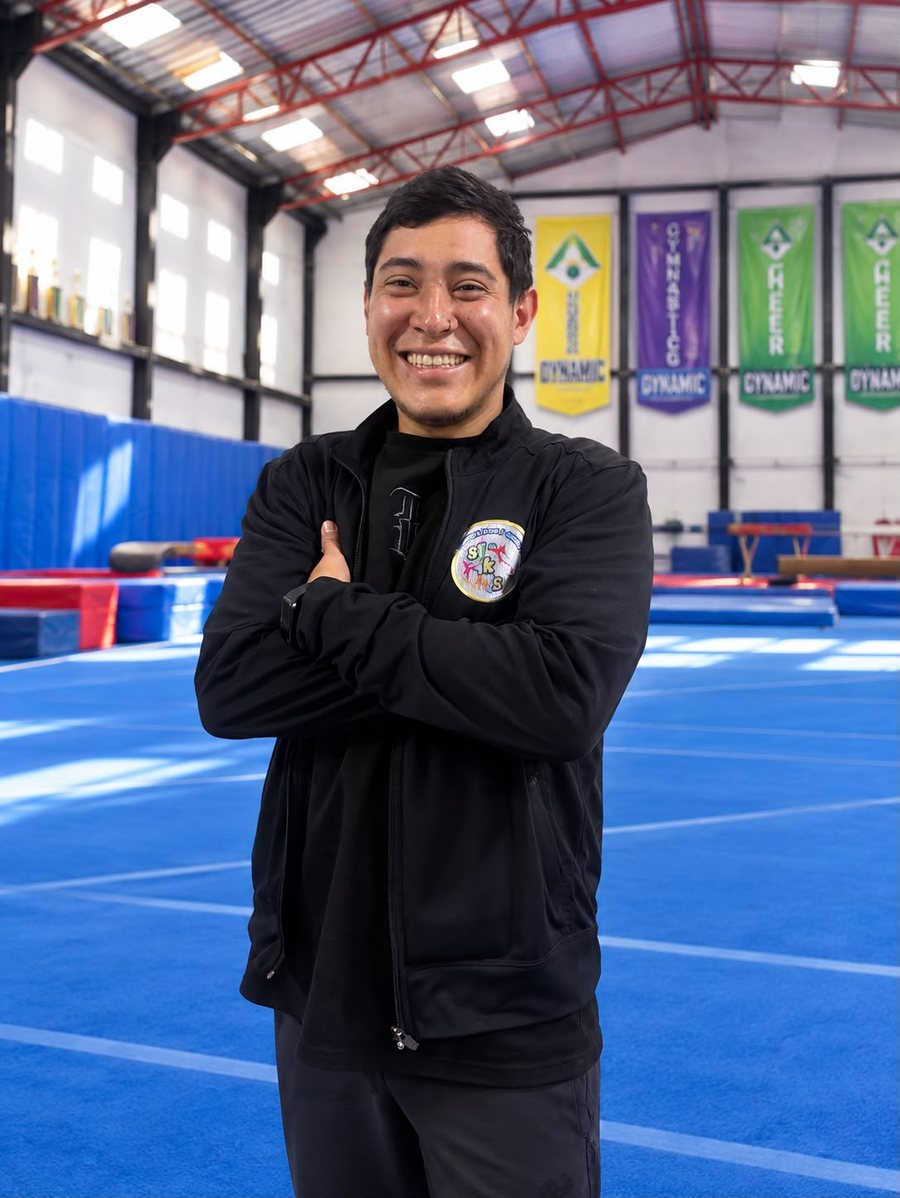
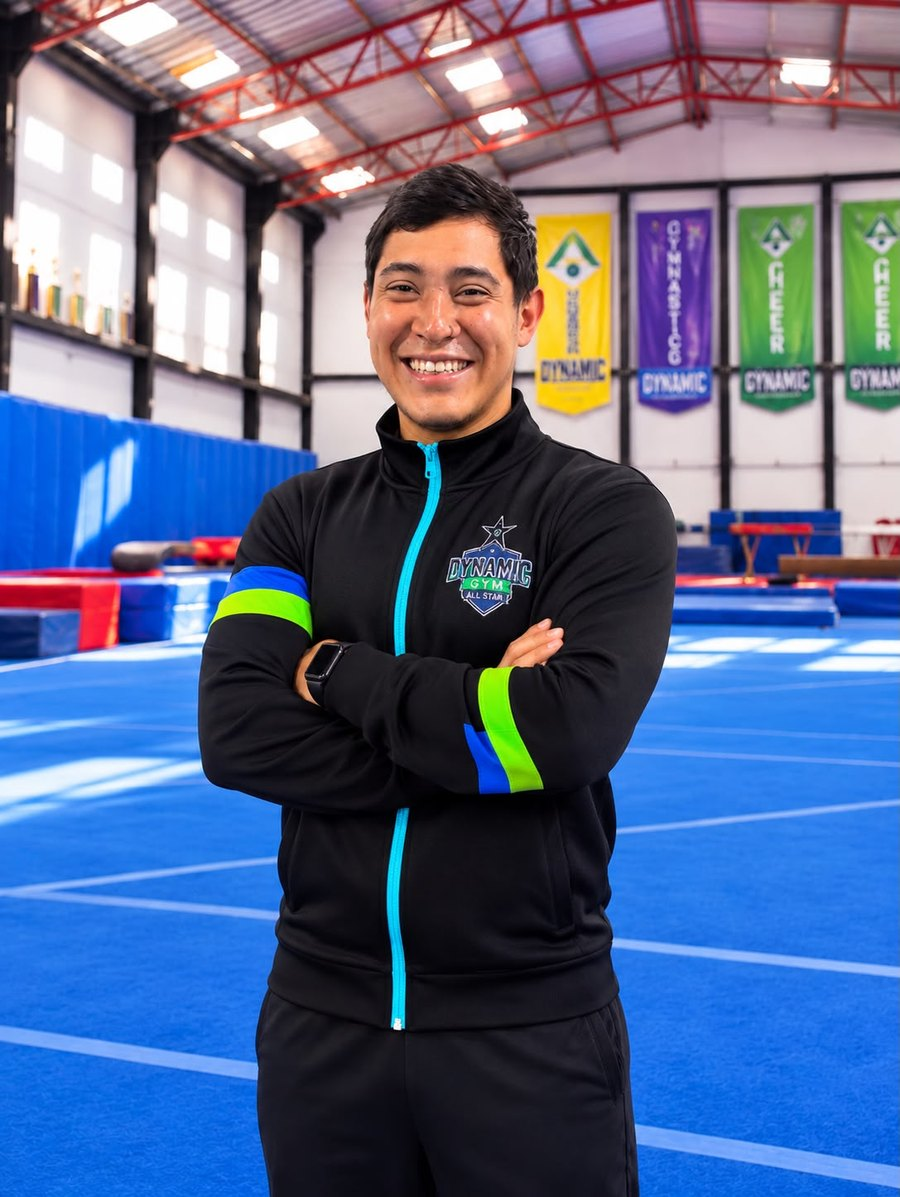
Pruebas: correcciones de la dueña (misión, valores, servicios, planes, niveles, categorías) y equipo de 5 fichas
Claude-Session: https://claude.ai/code/session_01TcARdtBkT42PP3jxgWXUyL

diff --git a/pruebas/dynamic-all-star.html b/pruebas/dynamic-all-star.html
@@ -4,10 +4,15 @@
 <title>Dynamic All Star</title>
 <meta name="description" content="Escuela de gimnasia con planes mensuales, niveles, campeonatos y uniformes.">
 <link rel="preconnect" href="https://fonts.googleapis.com"><link rel="preconnect" href="https://fonts.gstatic.com" crossorigin><link rel="stylesheet" href="https://fonts.googleapis.com/css2?family=Bricolage+Grotesque:opsz,wght@12..96,600;12..96,700&family=Instrument+Sans:wght@400;500;600;700&display=swap">
-<link rel="stylesheet" href="assets/site.css?v=1793600000">
+<link rel="stylesheet" href="assets/site.css?v=1794600100">
 <link rel="icon" href="favicon.ico" sizes="48x48"><link rel="icon" type="image/png" sizes="32x32" href="favicon-32.png"><link rel="icon" type="image/png" sizes="192x192" href="favicon-192.png"><link rel="apple-touch-icon" href="apple-touch-icon.png">
 </head><body>
-<div class="test"><strong>Versión de pruebas.</strong> Textos, horarios, precios y datos de contacto están por confirmar con Dynamic GYM.</div><header class="nav"><div class="wrap"><a class="brand" href="index.html" aria-label="Dynamic GYM, inicio"><img src="img/logo.png" alt="Dynamic GYM" width="262" height="41"></a><button class="menu-btn" id="menu-btn" aria-expanded="false" aria-controls="links">Menú</button><nav class="links" id="links" aria-label="Principal"><a href="index.html">Inicio</a><a href="dynamic-all-star.html" aria-current="page">Dynamic All Star</a><a href="dynamic-gym.html">Dynamic GYM</a><a href="campeonatos.html">Campeonatos</a><a href="niveles-e-insignias.html">Niveles e insignias</a><a href="contacto.html">Contacto</a><a class="cta m-only" href="deportistas.html">Deportistas</a></nav><a class="btn-dep" href="deportistas.html">Deportistas</a></div></header><main><div class="hero full" style="--ar:1.78"><img class="bg" src="img/all-star.jpg" alt="" fetchpriority="high"><div class="wrap"><span class="eyebrow">Tu escuela, tu equipo</span><h1>Dynamic All Star</h1><p class="lede">Aquí se aprende a volar, a caerse y a levantarse con un equipo que te aplaude en cada paso.</p><div class="actions"><a class="btn primary" href="https://wa.me/573212038857?text=Hola%2C%20quiero%20agendar%20una%20clase%20de%20cortes%C3%ADa%20en%20Dynamic%20All%20Star." target="_blank" rel="noopener">Agenda tu clase de cortesía</a><a class="btn ghost" href="niveles-e-insignias.html">Ver cómo se sube de nivel</a></div></div></div><section class="deco"><div class="wrap">
+<div class="test"><strong>Versión de pruebas.</strong> Textos, horarios, precios y datos de contacto están por confirmar con Dynamic GYM.</div><header class="nav"><div class="wrap"><a class="brand" href="index.html" aria-label="Dynamic GYM, inicio"><img src="img/logo.png" alt="Dynamic GYM" width="262" height="41"></a><button class="menu-btn" id="menu-btn" aria-expanded="false" aria-controls="links">Menú</button><nav class="links" id="links" aria-label="Principal"><a href="index.html">Inicio</a><a href="dynamic-all-star.html" aria-current="page">Dynamic All Star</a><a href="dynamic-gym.html">Dynamic GYM</a><a href="campeonatos.html">Campeonatos</a><a href="niveles-e-insignias.html">Niveles e insignias</a><a href="contacto.html">Contacto</a><a class="cta m-only" href="deportistas.html">Deportistas</a></nav><a class="btn-dep" href="deportistas.html">Deportistas</a></div></header><main><div class="hero full" style="--ar:1.78"><img class="bg" src="img/all-star.jpg" alt="" fetchpriority="high"><div class="wrap"><span class="eyebrow">Tu escuela, tu equipo</span><h1>Dynamic All Star</h1><p class="lede">Aquí se aprende a volar, a caerse y a levantarse con un equipo que te aplaude en cada paso.</p><div class="actions"><a class="btn primary" href="https://wa.me/573212038857?text=Hola%2C%20quiero%20agendar%20una%20clase%20de%20cortes%C3%ADa%20en%20Dynamic%20All%20Star." target="_blank" rel="noopener">Agenda tu clase de cortesía</a><a class="btn ghost" href="niveles-e-insignias.html">Ver cómo se sube de nivel</a></div></div></div><section class="soft mision"><div class="wrap">
+<div class="head"><span class="eyebrow">Nuestra misión</span><h2>Formamos deportistas integrales</h2></div>
+<p class="mision-t">Somos la escuela de formación y competencia en porrismo de Dynamic Gym Bogotá, dedicada a potenciar las habilidades físicas, técnicas y artísticas de niños y jóvenes. A través de procesos estructurados, acompañamiento profesional y un entorno seguro, formamos deportistas integrales con alto nivel competitivo, proyectando nuestros equipos hacia escenarios nacionales e internacionales sin perder el enfoque humano.</p>
+</div></section>
+
+<section class="deco"><div class="wrap">
 <div class="head"><span class="eyebrow">Así se vive</span><h2>Un camino claro, de la primera clase al podio</h2><p>Eliges un plan, empiezas en tu nivel y avanzas con un equipo que te acompaña hasta el campeonato.</p></div>
 <div class="grid g4">
 <div class="card ico"><span class="ib" aria-hidden="true"><svg viewBox="0 0 24 24" fill="none" stroke="currentColor" stroke-width="1.8" stroke-linecap="round" stroke-linejoin="round"><circle cx="12" cy="13.5" r="7.5"/><path d="M12 9.5v4.2l2.8 1.8M9.5 2.5h5M12 2.5v3.5M19 6l1.5-1.5"/></svg></span><h3>Entrenas a tu ritmo</h3><p>Eliges cuántas clases al mes se ajustan a tu familia.</p></div>
@@ -19,8 +24,8 @@
 <section class="sky"><div class="wrap">
 <div class="head"><span class="eyebrow">Planes mensuales</span><h2>Elige cuánto quieres entrenar</h2><p>Escoge el ritmo que mejor se ajuste a tu familia. Los horarios se publican cuando estén confirmados.</p></div>
 <div class="grid g3">
-<div class="card plan"><span class="tag e">Competencia</span><span class="n">12</span><span class="u">clases al mes</span><p>Para quienes sueñan con competir: más práctica, más nivel y la emoción de salir al campeonato con el equipo.</p><span class="price">$150.000 <small>al mes</small></span><a class="btn primary plan-cta" href="https://wa.me/573212038857?text=Hola%2C%20quiero%20agendar%20una%20clase%20de%20cortes%C3%ADa%20en%20Dynamic%20All%20Star.%20Me%20interesa%20el%20plan%20de%2012%20clases%20al%20mes." target="_blank" rel="noopener">Agenda tu clase de cortesía</a></div>
-<div class="card plan"><span class="tag g">Recreativo</span><span class="n">8</span><span class="u">clases al mes</span><p>Un ritmo constante para aprender, divertirte y ver cómo avanzas.</p><span class="price">$120.000 <small>al mes</small></span><a class="btn primary plan-cta" href="https://wa.me/573212038857?text=Hola%2C%20quiero%20agendar%20una%20clase%20de%20cortes%C3%ADa%20en%20Dynamic%20All%20Star.%20Me%20interesa%20el%20plan%20de%208%20clases%20al%20mes." target="_blank" rel="noopener">Agenda tu clase de cortesía</a></div>
+<div class="card plan"><span class="tag e">Competencia</span><span class="n">12</span><span class="u">clases al mes</span><p>Para quienes sueñan con competir: más práctica, más nivel y la emoción de salir al campeonato con el equipo.</p><span class="price">$170.000 <small>al mes</small></span><a class="btn primary plan-cta" href="https://wa.me/573212038857?text=Hola%2C%20quiero%20agendar%20una%20clase%20de%20cortes%C3%ADa%20en%20Dynamic%20All%20Star.%20Me%20interesa%20el%20plan%20de%2012%20clases%20al%20mes." target="_blank" rel="noopener">Agenda tu clase de cortesía</a></div>
+<div class="card plan"><span class="tag g">Formativo</span><span class="n">8</span><span class="u">clases al mes</span><p>Un ritmo constante para aprender, divertirte y ver cómo avanzas.</p><span class="price">$150.000 <small>al mes</small></span><a class="btn primary plan-cta" href="https://wa.me/573212038857?text=Hola%2C%20quiero%20agendar%20una%20clase%20de%20cortes%C3%ADa%20en%20Dynamic%20All%20Star.%20Me%20interesa%20el%20plan%20de%208%20clases%20al%20mes." target="_blank" rel="noopener">Agenda tu clase de cortesía</a></div>
 <div class="card plan"><span class="tag g">Recreativo</span><span class="n">4</span><span class="u">clases al mes</span><p>El primer paso para descubrir si esto es lo tuyo, o para sumarlo a otras actividades.</p><span class="price">$100.000 <small>al mes</small></span><a class="btn primary plan-cta" href="https://wa.me/573212038857?text=Hola%2C%20quiero%20agendar%20una%20clase%20de%20cortes%C3%ADa%20en%20Dynamic%20All%20Star.%20Me%20interesa%20el%20plan%20de%204%20clases%20al%20mes." target="_blank" rel="noopener">Agenda tu clase de cortesía</a></div>
 </div></div></section>
 
@@ -42,13 +47,13 @@
 </div></section>
 
 <section class="soft" id="entrenadores"><div class="wrap">
-<div class="head"><span class="eyebrow">Tus entrenadores</span><h2>Conoce a quienes creen en ti desde la primera clase</h2><p>Un equipo que cuida, motiva y celebra cada avance, desde la primera clase hasta el campeonato.</p></div>
-<div class="grid g4">
-<div class="card pic coach"><img src="img/entrenadores/entrenador-3.jpg?v=2" alt="Entrenadora de Dynamic GYM All Star con la chaqueta del equipo, en el gimnasio" loading="lazy"><div class="tx"><h3>Nombre por confirmar</h3><p>Entrenadora</p></div></div>
-<div class="card pic coach"><img src="img/entrenadores/entrenador-1.jpg" alt="Nicolás Cuadros, entrenador" loading="lazy"><div class="tx"><h3>Nicolás Cuadros</h3><p>Entrenador</p></div></div>
-<div class="card pic coach"><img src="img/entrenadores/entrenador-2.jpg" alt="Nombre por confirmar, Entrenador o entrenadora" loading="lazy"><div class="tx"><h3>Nombre por confirmar</h3><p>Entrenador o entrenadora</p></div></div>
-<div class="card pic coach"><div class="ph-w" role="img" aria-label="Foto del entrenador por cargar"><svg viewBox="0 0 48 48" aria-hidden="true"><circle cx="24" cy="17" r="8"/><path d="M8 42c1-9 7-14 16-14s15 5 16 14z"/></svg><span>Foto por cargar</span></div><div class="tx"><h3>Nombre por confirmar</h3><p>Entrenador o entrenadora</p></div></div>
-
+<div class="head"><span class="eyebrow">Nuestro equipo</span><h2>Conoce a quienes creen en ti desde la primera clase</h2><p>Un equipo que cuida, motiva y celebra cada avance, desde la primera clase hasta el campeonato.</p></div>
+<div class="grid g5">
+<div class="card pic coach"><img src="img/entrenadores/entrenador-3.jpg?v=2" alt="Yeniffer Loboguerrero, Head Coach" loading="lazy"><div class="tx"><h3>Yeniffer Loboguerrero</h3><p>Head Coach</p></div></div>
+<div class="card pic coach"><img src="img/entrenadores/entrenador-1.jpg?v=3" alt="Nicolás Cuadros, Entrenador" loading="lazy"><div class="tx"><h3>Nicolás Cuadros</h3><p>Entrenador</p></div></div>
+<div class="card pic coach"><img src="img/entrenadores/entrenador-2.jpg?v=3" alt="Nicolás Hernández, Entrenador" loading="lazy"><div class="tx"><h3>Nicolás Hernández</h3><p>Entrenador</p></div></div>
+<div class="card pic coach"><img src="img/entrenadores/entrenador-4.jpg" alt="Marvin Cabra, Innovation Choreography" loading="lazy"><div class="tx"><h3>Marvin Cabra</h3><p>Innovation Choreography</p></div></div>
+<div class="card pic coach"><img src="img/entrenadores/entrenador-5.jpg" alt="Isabella, Fisioterapeuta" loading="lazy"><div class="tx"><h3>Isabella</h3><p>Fisioterapeuta</p></div></div>
 </div></div></section>
 
 <section><div class="wrap split">

diff --git a/pruebas/dynamic-gym.html b/pruebas/dynamic-gym.html
@@ -4,17 +4,30 @@
 <title>Dynamic GYM</title>
 <meta name="description" content="El centro de entrenamiento: convenios con colegios y grupo Wildcats.">
 <link rel="preconnect" href="https://fonts.googleapis.com"><link rel="preconnect" href="https://fonts.gstatic.com" crossorigin><link rel="stylesheet" href="https://fonts.googleapis.com/css2?family=Bricolage+Grotesque:opsz,wght@12..96,600;12..96,700&family=Instrument+Sans:wght@400;500;600;700&display=swap">
-<link rel="stylesheet" href="assets/site.css?v=1793500800">
+<link rel="stylesheet" href="assets/site.css?v=1794600000">
 <link rel="icon" href="favicon.ico" sizes="48x48"><link rel="icon" type="image/png" sizes="32x32" href="favicon-32.png"><link rel="icon" type="image/png" sizes="192x192" href="favicon-192.png"><link rel="apple-touch-icon" href="apple-touch-icon.png">
 </head><body>
-<div class="test"><strong>Versión de pruebas.</strong> Textos, horarios, precios y datos de contacto están por confirmar con Dynamic GYM.</div><header class="nav"><div class="wrap"><a class="brand" href="index.html" aria-label="Dynamic GYM, inicio"><img src="img/logo.png" alt="Dynamic GYM" width="262" height="41"></a><button class="menu-btn" id="menu-btn" aria-expanded="false" aria-controls="links">Menú</button><nav class="links" id="links" aria-label="Principal"><a href="index.html">Inicio</a><a href="dynamic-all-star.html">Dynamic All Star</a><a href="dynamic-gym.html" aria-current="page">Dynamic GYM</a><a href="campeonatos.html">Campeonatos</a><a href="niveles-e-insignias.html">Niveles e insignias</a><a href="contacto.html">Contacto</a><a class="cta m-only" href="deportistas.html">Deportistas</a></nav><a class="btn-dep" href="deportistas.html">Deportistas</a></div></header><main><div class="hero" style="--ar:3"><img class="bg" src="img/dynamic-gym-hero.jpg" alt="" fetchpriority="high"><div class="wrap"><span class="eyebrow">Centro de entrenamiento</span><h1>Dynamic GYM</h1><p class="lede">El lugar donde se prepara el talento: un espacio para entrenar, ensayar y crecer juntos.</p><div class="actions"><a class="btn primary" href="contacto.html">Visítanos</a></div></div></div><section class="dark tex"><div class="wrap">
+<div class="test"><strong>Versión de pruebas.</strong> Textos, horarios, precios y datos de contacto están por confirmar con Dynamic GYM.</div><header class="nav"><div class="wrap"><a class="brand" href="index.html" aria-label="Dynamic GYM, inicio"><img src="img/logo.png" alt="Dynamic GYM" width="262" height="41"></a><button class="menu-btn" id="menu-btn" aria-expanded="false" aria-controls="links">Menú</button><nav class="links" id="links" aria-label="Principal"><a href="index.html">Inicio</a><a href="dynamic-all-star.html">Dynamic All Star</a><a href="dynamic-gym.html" aria-current="page">Dynamic GYM</a><a href="campeonatos.html">Campeonatos</a><a href="niveles-e-insignias.html">Niveles e insignias</a><a href="contacto.html">Contacto</a><a class="cta m-only" href="deportistas.html">Deportistas</a></nav><a class="btn-dep" href="deportistas.html">Deportistas</a></div></header><main><div class="hero" style="--ar:3"><img class="bg" src="img/dynamic-gym-hero.jpg" alt="" fetchpriority="high"><div class="wrap"><span class="eyebrow">Centro de entrenamiento</span><h1>Dynamic GYM</h1><p class="lede">El lugar donde se prepara el talento: un espacio para entrenar, ensayar y crecer juntos.</p><div class="actions"><a class="btn primary" href="contacto.html">Visítanos</a></div></div></div><section class="soft mision"><div class="wrap">
+<div class="head"><span class="eyebrow">Nuestra misión</span><h2>Un centro de desarrollo deportivo y artístico en Bogotá</h2></div>
+<p class="mision-t">Somos un centro de desarrollo deportivo y artístico en Bogotá que ofrece instalaciones especializadas, programas de formación y servicios integrales en gimnasia, porrismo, danza urbana y artes aéreas (acrotelas y liras). Mediante un equipo humano capacitado y alianzas estratégicas con colegios, clubes y agrupaciones, brindamos espacios seguros y versátiles que promueven el bienestar, el aprendizaje y el aprovechamiento positivo del tiempo libre en niños, jóvenes y adultos.</p>
+<h3 class="vals-t">Valores institucionales</h3>
+<div class="grid five"><div class="card lvl"><h3>Disciplina y constancia</h3><p>Creemos que los grandes resultados deportivos, académicos y personales se construyen con esfuerzo diario y compromiso.</p></div><div class="card lvl"><h3>Seguridad y bienestar</h3><p>Priorizamos la integridad física y emocional de cada usuario, deportista y aliado mediante instalaciones adecuadas y supervisión profesional.</p></div><div class="card lvl"><h3>Trabajo en equipo</h3><p>Fomentamos la unión, la confianza mutua y el sentido de pertenencia como base del éxito, tanto en el tapete como en nuestras alianzas.</p></div><div class="card lvl"><h3>Respeto e inclusión</h3><p>Valoramos la diversidad de capacidades y procesos, y promovemos un trato digno entre deportistas, familias, entrenadores e instituciones aliadas.</p></div><div class="card lvl"><h3>Excelencia y versatilidad</h3><p>Buscamos la mejora continua en cada clase, alquiler, convenio y presentación competitiva, y nos adaptamos con profesionalismo a las necesidades de cada proyecto.</p></div></div>
+</div></section>
+
+<section class="dark tex"><div class="wrap">
 <div class="head"><span class="eyebrow">Lo que se vive en Dynamic GYM</span><h2>Un espacio donde todos se sienten parte</h2></div>
 <div class="wc-split">
 <figure class="wc-photo"><img src="img/wildcats.jpg" alt="Niñas del equipo Wildcats entrenando una pirámide y acrobacias en el gimnasio de Dynamic" loading="lazy"></figure>
 <div class="wc-cards">
 <div class="card"><span class="tag g">Convenios</span><h3>Colegios y grupos</h3><p>Tu colegio o tu grupo también puede entrenar aquí. Acordamos el valor y la fecha de pago con cada convenio, según los días de entrenamiento o los eventos.</p></div>
-<div class="card"><span class="tag g">Grupo del colegio</span><h3>Colegio Superior Americano</h3><p class="sub-t">Wildcats</p><p>El equipo del colegio que entrena en Dynamic GYM, con sus propios días en el calendario. Aquí se construye el espíritu de equipo.</p></div>
+<div class="card"><span class="tag g">Convenio vigente</span><h3>Colegio Superior Americano</h3><p class="sub-t">Wildcats</p><p>Extraclase de porrismo y acrotelas, y lúdicas de gimnasia para los estudiantes del colegio.</p></div>
+<div class="card"><span class="tag g">Convenio vigente</span><h3>Spartan All Star</h3><p>Alquiler de nuestro escenario deportivo para sus entrenamientos.</p></div>
 </div></div>
+</div></section>
+
+<section id="servicios"><div class="wrap">
+<div class="head"><span class="eyebrow">Servicios de Dynamic GYM</span><h2>Alianzas y alquiler de escenarios</h2><p>Trabajamos con colegios, clubes y agrupaciones que necesitan un espacio seguro y versátil para formar, entrenar y presentarse.</p></div>
+<div class="grid g4"><div class="card lvl"><h3>Convenios institucionales</h3><p>Programas deportivos y artísticos extracurriculares o curriculares, diseñados a la medida para colegios e instituciones educativas.</p></div><div class="card lvl"><h3>Alquiler de espacios para entrenamiento</h3><p>Instalaciones adecuadas para equipos de porrismo, clubes de gimnasia y agrupaciones de danza.</p></div><div class="card lvl"><h3>Alquiler para actividades circenses</h3><p>Espacios con altura y puntos de anclaje seguros para prácticas libres, ensayos o talleres de acrotelas, liras y circo.</p></div><div class="card lvl"><h3>Eventos y proyectos especiales</h3><p>Escenario disponible para talleres intensivos, vacaciones recreativas, ensayos generales y jornadas deportivas.</p></div></div>
 </div></section>
 
 <section class="tint2" id="alquiler"><div class="wrap">

diff --git a/pruebas/niveles-e-insignias.html b/pruebas/niveles-e-insignias.html
@@ -4,18 +4,18 @@
 <title>Niveles e insignias</title>
 <meta name="description" content="Niveles de competencia, categorías por edad e insignias: cómo se mide y se celebra el avance de cada deportista.">
 <link rel="preconnect" href="https://fonts.googleapis.com"><link rel="preconnect" href="https://fonts.gstatic.com" crossorigin><link rel="stylesheet" href="https://fonts.googleapis.com/css2?family=Bricolage+Grotesque:opsz,wght@12..96,600;12..96,700&family=Instrument+Sans:wght@400;500;600;700&display=swap">
-<link rel="stylesheet" href="assets/site.css?v=1793500800">
+<link rel="stylesheet" href="assets/site.css?v=1794600000">
 <link rel="icon" href="favicon.ico" sizes="48x48"><link rel="icon" type="image/png" sizes="32x32" href="favicon-32.png"><link rel="icon" type="image/png" sizes="192x192" href="favicon-192.png"><link rel="apple-touch-icon" href="apple-touch-icon.png">
 </head><body>
 <div class="test"><strong>Versión de pruebas.</strong> Textos, horarios, precios y datos de contacto están por confirmar con Dynamic GYM.</div><header class="nav"><div class="wrap"><a class="brand" href="index.html" aria-label="Dynamic GYM, inicio"><img src="img/logo.png" alt="Dynamic GYM" width="262" height="41"></a><button class="menu-btn" id="menu-btn" aria-expanded="false" aria-controls="links">Menú</button><nav class="links" id="links" aria-label="Principal"><a href="index.html">Inicio</a><a href="dynamic-all-star.html">Dynamic All Star</a><a href="dynamic-gym.html">Dynamic GYM</a><a href="campeonatos.html">Campeonatos</a><a href="niveles-e-insignias.html" aria-current="page">Niveles e insignias</a><a href="contacto.html">Contacto</a><a class="cta m-only" href="deportistas.html">Deportistas</a></nav><a class="btn-dep" href="deportistas.html">Deportistas</a></div></header><main><div class="hero full" style="--ar:1.78"><img class="bg" src="img/niveles-hero.jpg" alt="" fetchpriority="high"><div class="wrap"><span class="eyebrow">Tu progreso, a la vista</span><h1>Niveles e insignias</h1><p class="lede">Sabes dónde estás, qué has logrado y qué sigue. Tu familia también lo ve y lo celebra contigo.</p><div class="actions"><a class="btn primary" href="https://wa.me/573212038857?text=Hola%2C%20quiero%20empezar%20mi%20camino%20en%20Dynamic%20All%20Star.%20%C2%BFPodemos%20agendar%20una%20clase%20de%20cortes%C3%ADa%3F" target="_blank" rel="noopener">Quiero empezar mi camino</a></div></div></div><section><div class="wrap">
 <div class="head"><span class="eyebrow">Sube escalón por escalón</span><h2>Tu nivel, tu camino</h2><p>El nivel depende de tu avance, no solo de tu edad. Subes de escalón cuando tus habilidades están listas, y ese momento se celebra.</p></div>
-<div class="grid g3"><div class="card lvl niv"><span class="tag e">Iniciación</span><h3>Fundamentación</h3><p>Desde los 3 años y medio. Es el punto de partida, antes de entrar a la competencia.</p></div><div class="card lvl niv"><span class="tag e">Novice</span><h3>Nivel 1</h3><p>Primer nivel competitivo. Es el nivel habitual de la categoría Mini.</p></div><div class="card lvl niv"><h3>Nivel 1.1</h3><p>Es el nivel habitual de la categoría Youth.</p></div><div class="card lvl niv"><h3>Nivel 2</h3><p>Nivel intermedio entre el 1.1 y el 2.1.</p></div><div class="card lvl niv"><h3>Nivel 2.1</h3><p>Es el nivel habitual de la categoría Junior.</p></div><div class="card lvl niv"><span class="tag g">Mayor nivel</span><h3>Nivel 3</h3><p>Es el nivel habitual de la categoría Open.</p></div></div>
+<div class="grid g4"><div class="card lvl niv"><span class="tag e">Iniciación</span><h3>Fundamentación</h3><p>Desde los 3 años y medio. Es el punto de partida, antes de entrar a la competencia.</p></div><div class="card lvl niv"><span class="n" aria-hidden="true">1</span><span class="tag e">Primer nivel</span><h3>Novice</h3><p>Escalón 1 de 7 en el camino de competencia.</p></div><div class="card lvl niv"><span class="n" aria-hidden="true">2</span><h3>Nivel 1.1</h3><p>Escalón 2 de 7 en el camino de competencia.</p></div><div class="card lvl niv"><span class="n" aria-hidden="true">3</span><h3>Nivel 1</h3><p>Escalón 3 de 7 en el camino de competencia.</p></div><div class="card lvl niv"><span class="n" aria-hidden="true">4</span><h3>Nivel 2.1</h3><p>Escalón 4 de 7 en el camino de competencia.</p></div><div class="card lvl niv"><span class="n" aria-hidden="true">5</span><h3>Nivel 2</h3><p>Escalón 5 de 7 en el camino de competencia.</p></div><div class="card lvl niv"><span class="n" aria-hidden="true">6</span><h3>Nivel 3</h3><p>Escalón 6 de 7 en el camino de competencia.</p></div><div class="card lvl niv"><span class="n" aria-hidden="true">7</span><span class="tag g">Mayor nivel</span><h3>Nivel 4</h3><p>Escalón 7 de 7 en el camino de competencia.</p></div></div>
 <p class="note" style="margin-top:20px">Una misma deportista puede estar en más de un equipo y llevar un nivel propio en cada uno.</p>
 </div></section>
 
 <section class="tint2"><div class="wrap">
 <div class="head"><span class="eyebrow">Compite con los de tu edad</span><h2>Categorías</h2><p>La categoría se propone según la edad y está abierta a cualquier sexo. Los entrenadores eligen la que mejor te queda; por eso algunos rangos se cruzan.</p></div>
-<div class="grid g4"><div class="card lvl"><h3>Mini</h3><p class="age">4 a 8 años</p><p>Nivel habitual: Nivel 1 (Novice)</p></div><div class="card lvl"><h3>Youth</h3><p class="age">9 a 12 años</p><p>Nivel habitual: Nivel 1.1</p></div><div class="card lvl"><h3>Junior</h3><p class="age">12 a 16 años</p><p>Nivel habitual: Nivel 2.1</p></div><div class="card lvl"><h3>Open</h3><p class="age">15 años en adelante</p><p>Nivel habitual: Nivel 3</p></div></div>
+<div class="grid g3"><div class="card lvl"><h3>Tiny</h3><p class="age"><span class="tbc">Edad por confirmar</span></p></div><div class="card lvl"><h3>Mini</h3><p class="age">4 a 8 años</p></div><div class="card lvl"><h3>Youth</h3><p class="age">9 a 12 años</p></div><div class="card lvl"><h3>Junior</h3><p class="age">12 a 16 años</p></div><div class="card lvl"><h3>Senior</h3><p class="age"><span class="tbc">Edad por confirmar</span></p></div><div class="card lvl"><h3>Open</h3><p class="age">15 años en adelante</p></div></div>
 <p class="note" style="margin-top:20px">Fundamentación es un grupo de iniciación, no una categoría de competencia.</p>
 </div></section>
 

diff --git a/pruebas/deportistas.html b/pruebas/deportistas.html
@@ -7,5 +7,5 @@
 <link rel="stylesheet" href="assets/site.css?v=1793500800">
 <link rel="icon" href="favicon.ico" sizes="48x48"><link rel="icon" type="image/png" sizes="32x32" href="favicon-32.png"><link rel="icon" type="image/png" sizes="192x192" href="favicon-192.png"><link rel="apple-touch-icon" href="apple-touch-icon.png">
 </head><body>
-<div class="test"><strong>Versión de pruebas.</strong> Textos, horarios, precios y datos de contacto están por confirmar con Dynamic GYM.</div><header class="nav"><div class="wrap"><a class="brand" href="index.html" aria-label="Dynamic GYM, inicio"><img src="img/logo.png" alt="Dynamic GYM" width="262" height="41"></a><button class="menu-btn" id="menu-btn" aria-expanded="false" aria-controls="links">Menú</button><nav class="links" id="links" aria-label="Principal"><a href="index.html">Inicio</a><a href="dynamic-all-star.html">Dynamic All Star</a><a href="dynamic-gym.html">Dynamic GYM</a><a href="campeonatos.html">Campeonatos</a><a href="niveles-e-insignias.html">Niveles e insignias</a><a href="contacto.html">Contacto</a><a class="cta m-only" href="deportistas.html">Deportistas</a></nav><a class="btn-dep" href="deportistas.html">Deportistas</a></div></header><main><section><div class="wrap dep-wrap"><div id="dep" class="dep"><noscript>Para inscribir a tu deportista necesitas activar JavaScript en el navegador.</noscript></div></div></section></main><footer><div class="wrap"><div class="cols"><div><img src="img/logo.png" alt="Dynamic GYM" width="200" height="31"><p>Dynamic All Star y Dynamic GYM: el equipo donde niñas, niños y jóvenes entrenan, compiten y crecen con orgullo.</p></div><div><h4>Explorar</h4><ul><li><a href="index.html">Inicio</a></li><li><a href="dynamic-all-star.html">Dynamic All Star</a></li><li><a href="dynamic-gym.html">Dynamic GYM</a></li><li><a href="campeonatos.html">Campeonatos</a></li><li><a href="niveles-e-insignias.html">Niveles e insignias</a></li><li><a href="contacto.html">Contacto</a></li></ul></div><div><h4>Visítanos</h4><ul><li>Calle 23 Sur # 68H - 55, Bogotá</li><li>Lunes a sábado, de 8 a. m. a 8 p. m.</li><li>WhatsApp: <a href="https://wa.me/573212038857" target="_blank" rel="noopener">321 203 8857</a></li><li>Instagram: <a href="https://www.instagram.com/dynamicgymbogota/" target="_blank" rel="noopener">@dynamicgymbogota</a></li><li>Correo: <a href="mailto:dynamicgymbogota@gmail.com">dynamicgymbogota@gmail.com</a></li></ul></div></div><p class="copy">© 2026 Dynamic GYM. <a href="politica-de-datos.html">Tratamiento de datos personales</a>. Sitio en construcción.</p></div></footer><script src="assets/site.js?v=1793311849"></script><script src="assets/deportistas.js?v=1793311849"></script>
+<div class="test"><strong>Versión de pruebas.</strong> Textos, horarios, precios y datos de contacto están por confirmar con Dynamic GYM.</div><header class="nav"><div class="wrap"><a class="brand" href="index.html" aria-label="Dynamic GYM, inicio"><img src="img/logo.png" alt="Dynamic GYM" width="262" height="41"></a><button class="menu-btn" id="menu-btn" aria-expanded="false" aria-controls="links">Menú</button><nav class="links" id="links" aria-label="Principal"><a href="index.html">Inicio</a><a href="dynamic-all-star.html">Dynamic All Star</a><a href="dynamic-gym.html">Dynamic GYM</a><a href="campeonatos.html">Campeonatos</a><a href="niveles-e-insignias.html">Niveles e insignias</a><a href="contacto.html">Contacto</a><a class="cta m-only" href="deportistas.html">Deportistas</a></nav><a class="btn-dep" href="deportistas.html">Deportistas</a></div></header><main><section><div class="wrap dep-wrap"><div id="dep" class="dep"><noscript>Para inscribir a tu deportista necesitas activar JavaScript en el navegador.</noscript></div></div></section></main><footer><div class="wrap"><div class="cols"><div><img src="img/logo.png" alt="Dynamic GYM" width="200" height="31"><p>Dynamic All Star y Dynamic GYM: el equipo donde niñas, niños y jóvenes entrenan, compiten y crecen con orgullo.</p></div><div><h4>Explorar</h4><ul><li><a href="index.html">Inicio</a></li><li><a href="dynamic-all-star.html">Dynamic All Star</a></li><li><a href="dynamic-gym.html">Dynamic GYM</a></li><li><a href="campeonatos.html">Campeonatos</a></li><li><a href="niveles-e-insignias.html">Niveles e insignias</a></li><li><a href="contacto.html">Contacto</a></li></ul></div><div><h4>Visítanos</h4><ul><li>Calle 23 Sur # 68H - 55, Bogotá</li><li>Lunes a sábado, de 8 a. m. a 8 p. m.</li><li>WhatsApp: <a href="https://wa.me/573212038857" target="_blank" rel="noopener">321 203 8857</a></li><li>Instagram: <a href="https://www.instagram.com/dynamicgymbogota/" target="_blank" rel="noopener">@dynamicgymbogota</a></li><li>Correo: <a href="mailto:dynamicgymbogota@gmail.com">dynamicgymbogota@gmail.com</a></li></ul></div></div><p class="copy">© 2026 Dynamic GYM. <a href="politica-de-datos.html">Tratamiento de datos personales</a>. Sitio en construcción.</p></div></footer><script src="assets/site.js?v=1793311849"></script><script src="assets/deportistas.js?v=1794600000"></script>
 </body></html>

diff --git a/pruebas/assets/site.css b/pruebas/assets/site.css
@@ -738,3 +738,17 @@ section.dark.tex::after{content:"";position:absolute;inset:0;z-index:-1;pointer-
 /* Celular: nada debe ensanchar la página (el menú lateral cerrado quedaba fuera de pantalla y permitía arrastrarla hacia la derecha) */
 html{max-width:100%;overflow-x:hidden;overflow-x:clip}
 body{max-width:100%;overflow-x:clip}
+
+/* Misión, valores y servicios */
+.mision-t{max-width:60em;font-size:clamp(17px,1.5vw,19px);line-height:1.65;color:var(--ink,inherit)}
+.vals-t{margin:clamp(28px,4vw,44px) 0 18px;font-size:clamp(20px,2vw,24px)}
+.grid.five{display:flex;flex-wrap:wrap;justify-content:center;gap:20px}
+.grid.five>*{flex:0 1 calc((100% - 40px)/3)}
+@media (max-width:900px){.grid.five>*{flex-basis:calc((100% - 20px)/2)}}
+@media (max-width:600px){.grid.five>*{flex-basis:100%}}
+
+/* Equipo: cinco fichas en una sola fila en computador */
+.g5{grid-template-columns:repeat(5,minmax(0,1fr));gap:16px}
+.g5 .coach h3{font-size:17px}.g5 .coach .tx{padding:16px 16px 18px}
+@media (max-width:1024px){.g5{grid-template-columns:repeat(3,minmax(0,1fr))}}
+@media (max-width:600px){.g5{grid-template-columns:repeat(2,minmax(0,1fr));gap:12px}.g5 .coach h3{font-size:16px}}

diff --git a/pruebas/assets/deportistas.js b/pruebas/assets/deportistas.js
@@ -5,7 +5,7 @@ var INS_KEY='dgym_insc',TODAY=new Date().toISOString().slice(0,10);
 var $=function(s){return document.querySelector(s)};
 function esc(x){return String(x==null?'':x).replace(/[&<>"']/g,function(c){return {'&':'&amp;','<':'&lt;','>':'&gt;','"':'&quot;',"'":'&#39;'}[c]})}
 function fmt(n){return '$ '+Number(n).toLocaleString('es-CO')}
-var PLAN={'12':'12 clases (competencia)','8':'8 clases (recreativo)','4':'4 clases (recreativo)','dance':'Dance'},PRICE={'12':150000,'8':120000,'4':100000,'dance':100000};
+var PLAN={'12':'12 clases (competencia)','8':'8 clases (formativo)','4':'4 clases (recreativo)','dance':'Dance'},PRICE={'12':170000,'8':150000,'4':100000,'dance':100000};
 var CVD=[{n:'Spartan',dias:'sáb y dom'},{n:'White Bulls',dias:'lun, mié y sáb'},{n:'Black Bulls',dias:'2 a 3 veces al año'},{n:'San Bonifacio',dias:'domingos, ~2 al mes'},{n:'Lúdicas',dias:'viernes en la mañana'},{n:'Acrotelas',dias:'días por definir'}];
 function cvLabel(c){return c.n+' ('+c.dias+')'}
 var ING=[['alq1','Alquiler 1 hora',6000],['alq2','Alquiler 2 horas',10000],['alq3','Alquiler 3 horas',15000],['ing','Ingreso al gimnasio',10000]];
